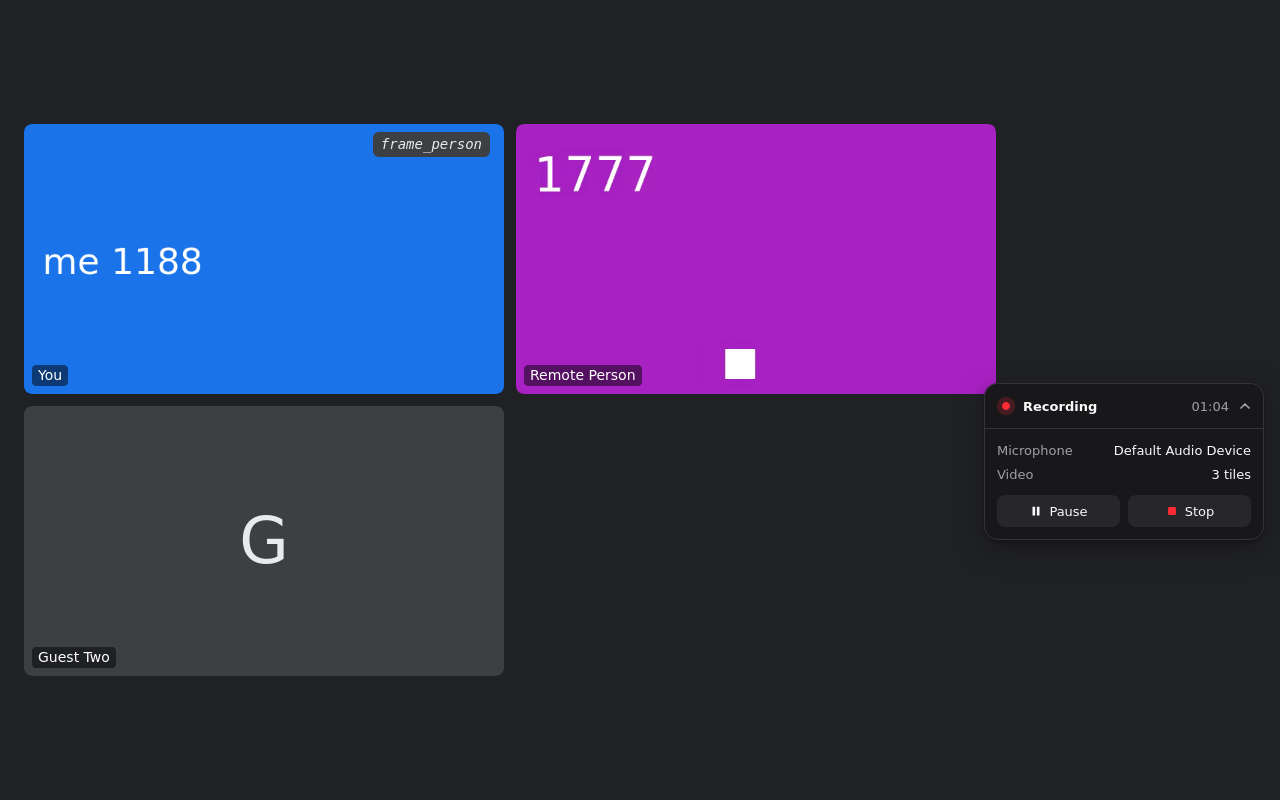
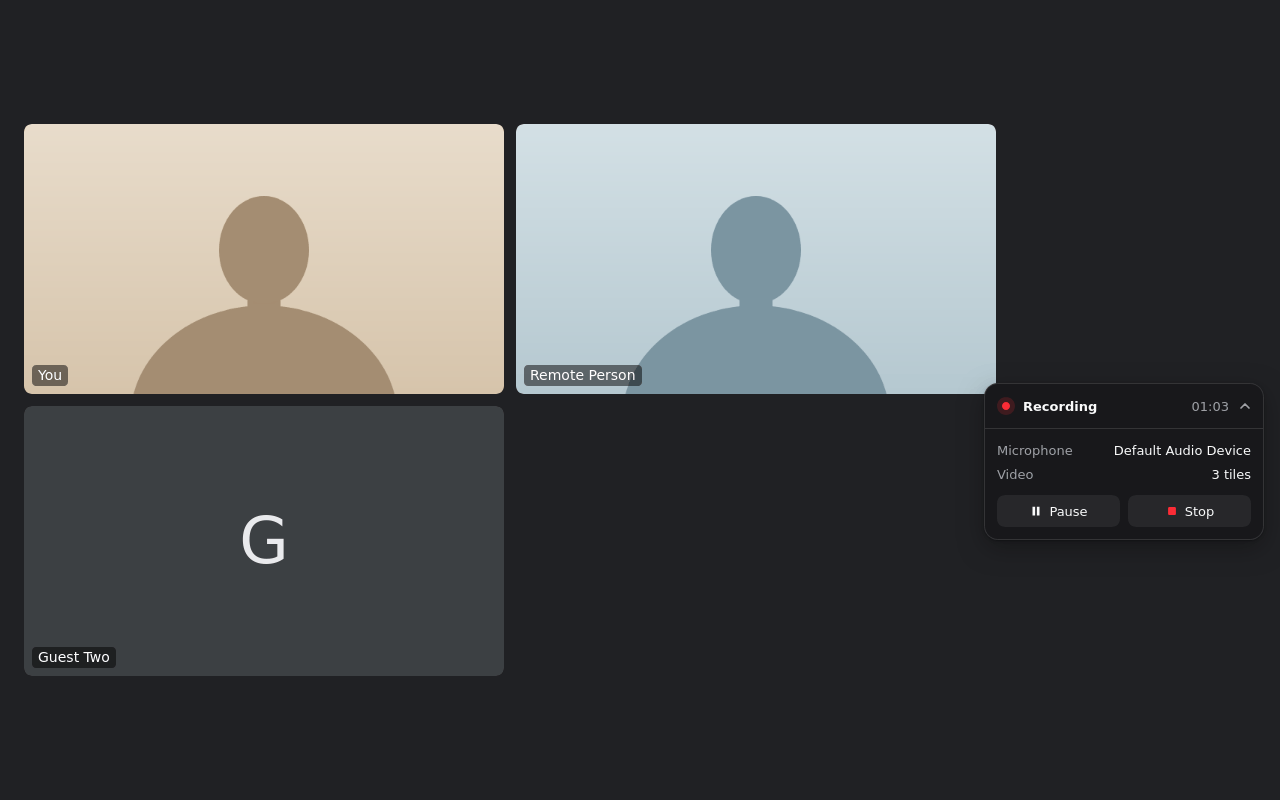
Store screenshots show calm meeting tiles and the notes up to what they observe
The fake page's frame counters, test squares and tag made the store
pictures look like a test bench: for the pictures only, its tiles show a
calm drawing per person, and the saved recording in the fourth shows the
same tiles. The notes in the fourth end at the "Recorded" line, before the
lines that say what today's notes do not observe yet. listing.md says
when to retake the third and the fourth.

Changed region(s): [[0.0, 0.1562, 0.7812, 0.5]]

diff --git a/docs/store/listing.md b/docs/store/listing.md
@@ -154,16 +154,24 @@ what they show changes.
 |---|---|
 | [`images/screenshot-1-status-card.png`](images/screenshot-1-status-card.png) | The status card on the meeting page while a call records: the time, the microphone, the video, Pause and Stop. |
 | [`images/screenshot-2-popup.png`](images/screenshot-2-popup.png) | The toolbar popup: the meeting being recorded, with Pause and Stop & save, and the recordings, with Show file. |
-| [`images/screenshot-3-options.png`](images/screenshot-3-options.png) | The settings: when to record, audio and video quality, file names and meeting notes. |
-| [`images/screenshot-4-recording-and-notes.png`](images/screenshot-4-recording-and-notes.png) | Each meeting becomes two files on your own disk: the recording and its notes, with times that point into it. |
+| [`images/screenshot-3-options.png`](images/screenshot-3-options.png) | The settings: whether and when to record, the audio quality, the status card, and the video. |
+| [`images/screenshot-4-recording-and-notes.png`](images/screenshot-4-recording-and-notes.png) | Each meeting becomes two files on your own disk: the recording, and its notes with the meeting's title, service, date, link and length. |
 
 They show the project's fake Google Meet page with invented names (You, Remote Person, Guest Two),
-never a real meeting. The fake page's own test buttons and log are hidden; the extension's card,
-popup and Options page are as Firefox drew them, the popup and the Options page at 1.5 and 1.25
-times their size so their words stay readable. The second places the popup where its panel opens,
-under the toolbar button, over the call. The fourth shows a frame of the saved recording and its
-notes file as written, from its title on, in UTC. Take them again when the status card, the
-popup, the Options page or the notes change what they show.
+never a real meeting. For the pictures only, the fake page's test buttons and log are hidden, and
+its camera pictures, which carry frame counters and test patterns, are replaced by a calm drawing
+per person; the recorder records what the page shows, so the saved recording in the fourth has the
+same tiles. The extension's card, popup and Options page are as Firefox drew them, the popup and
+the Options page at 1.5 and 1.25 times their size so their words stay readable. The second places
+the popup where its panel opens, under the toolbar button, over the call. The fourth shows a frame
+of the saved recording and its notes file as written, in UTC, from its title to the "Recorded"
+line: the lines after it say that today's notes do not observe the participants and the
+microphone yet.
+
+Take them again when the status card, the popup, the Options page or the notes change what they
+show: the fourth once the notes name the participants and what happened, the third once the
+Options page no longer calls the default start rule "when the first other participant's audio"
+(it starts once someone else is in the call, muted or not).
 
 ## Repository description
 
